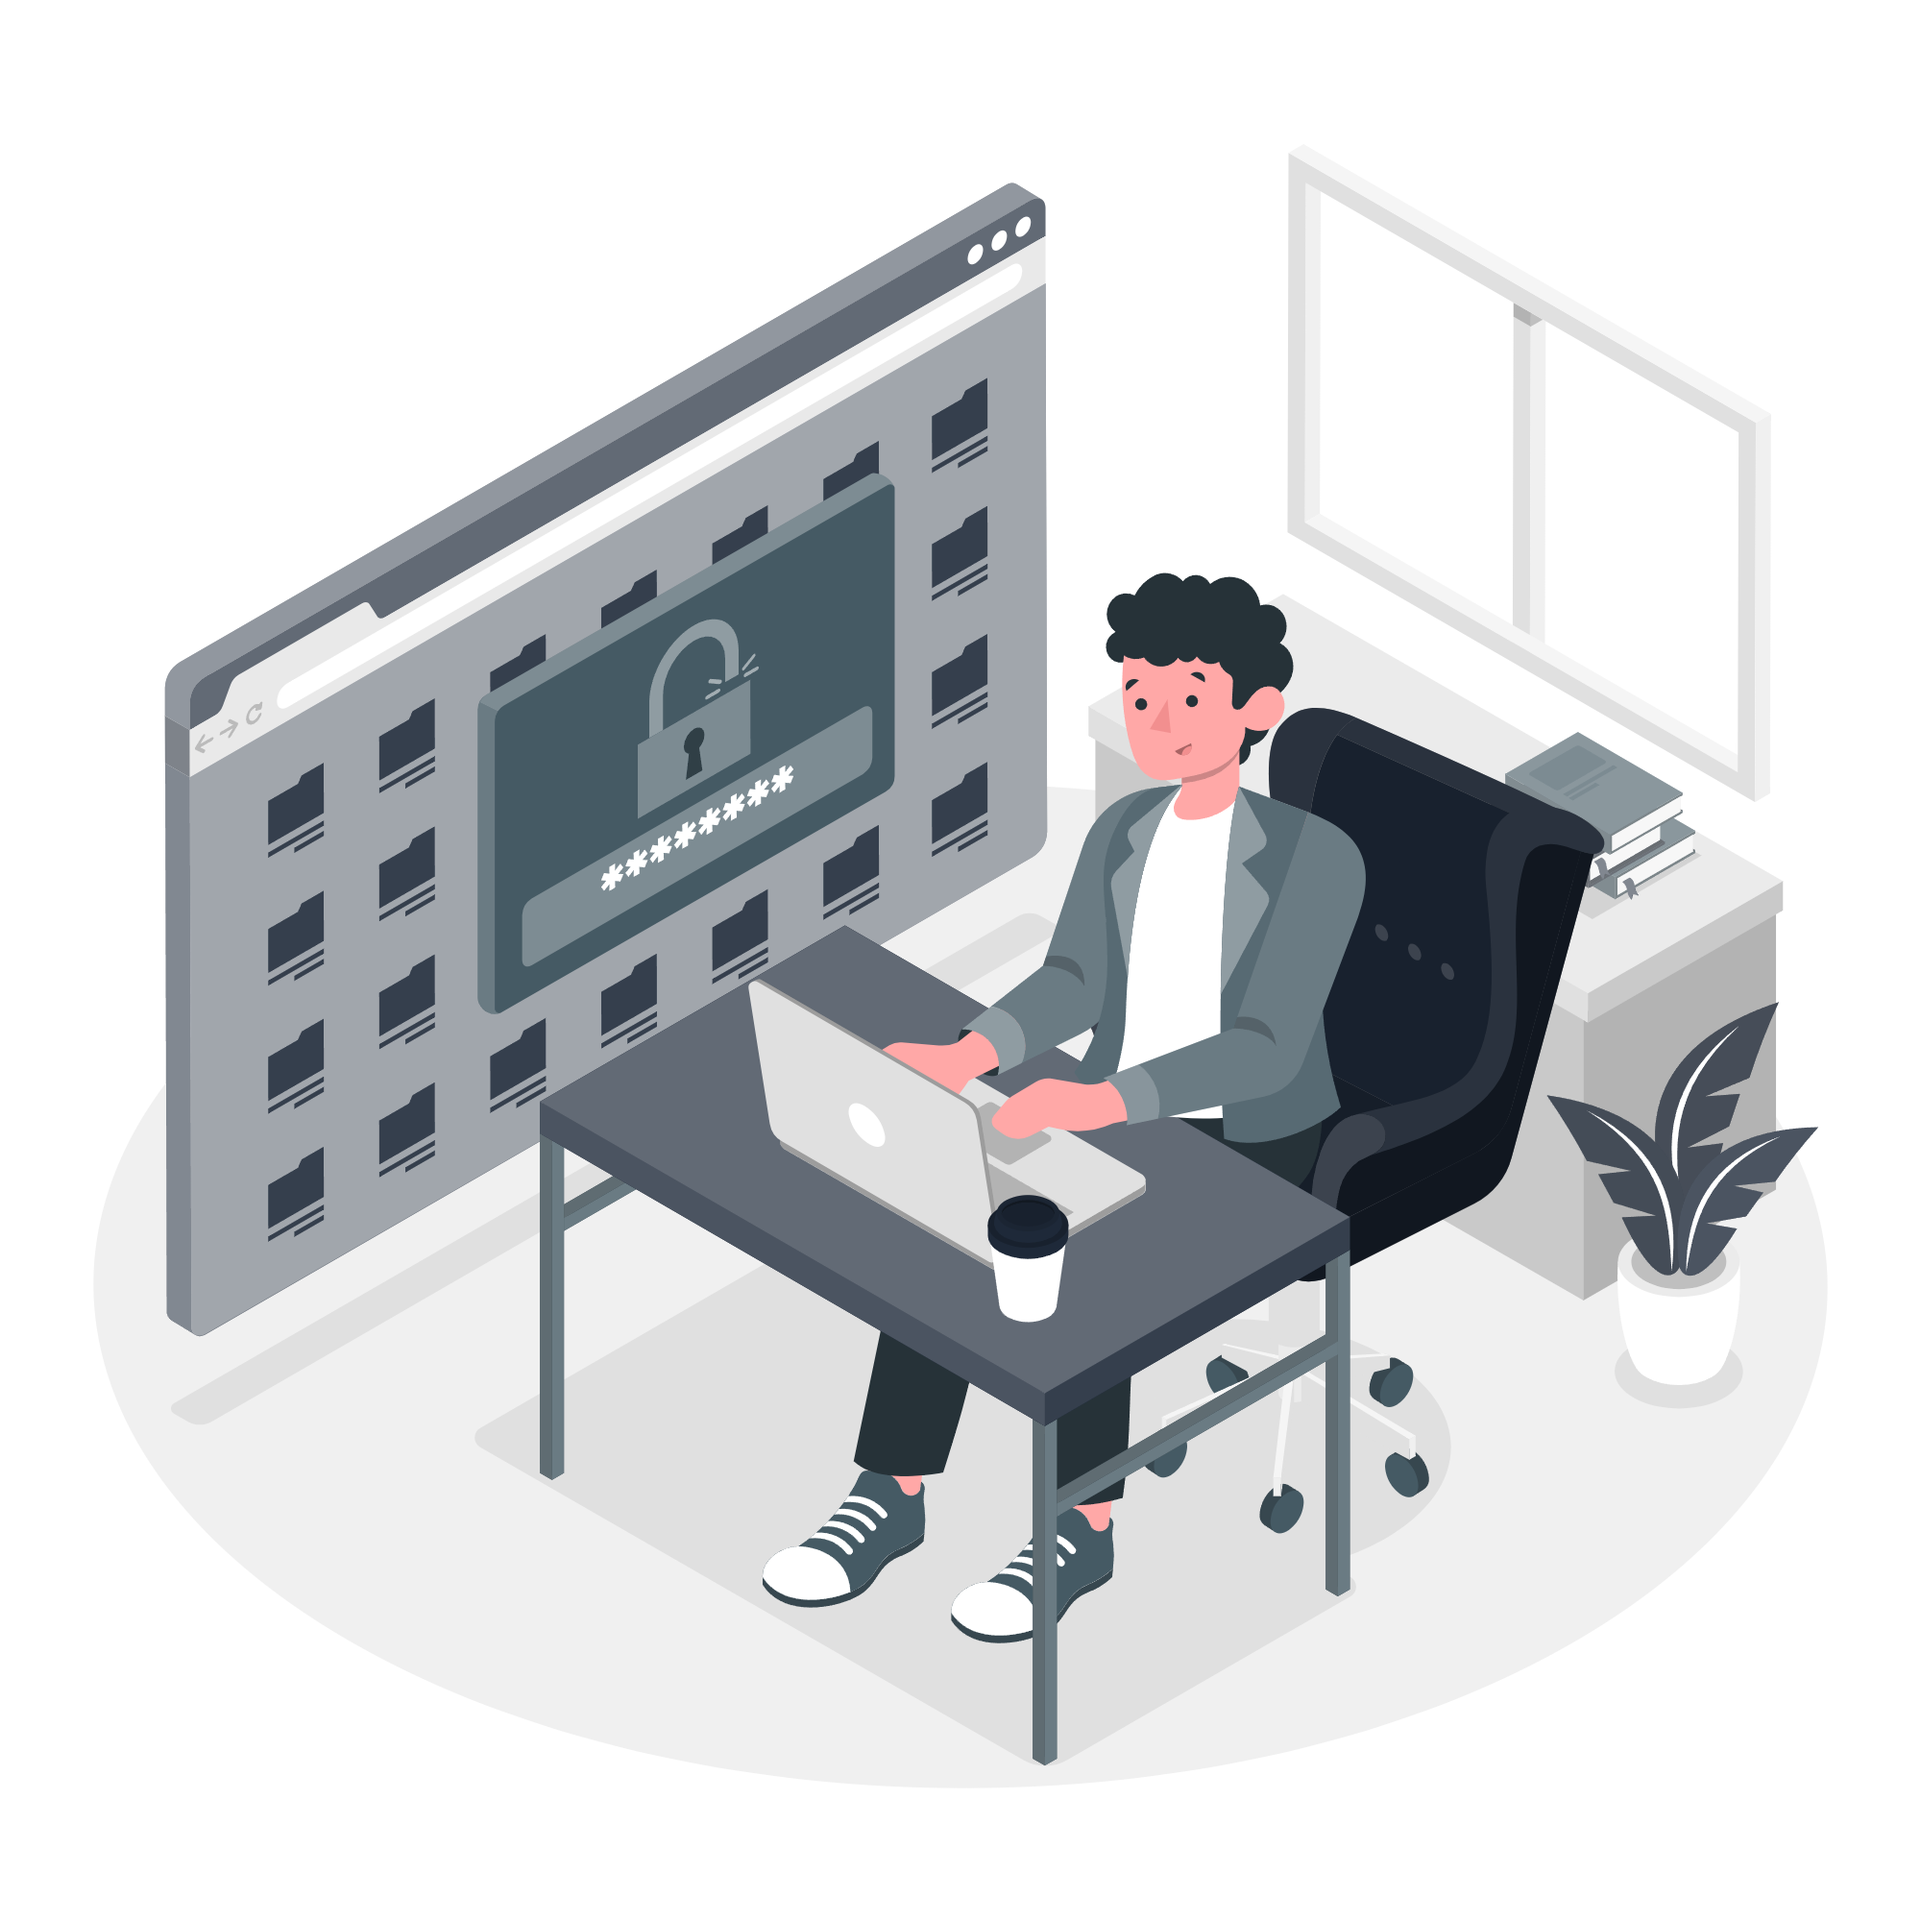
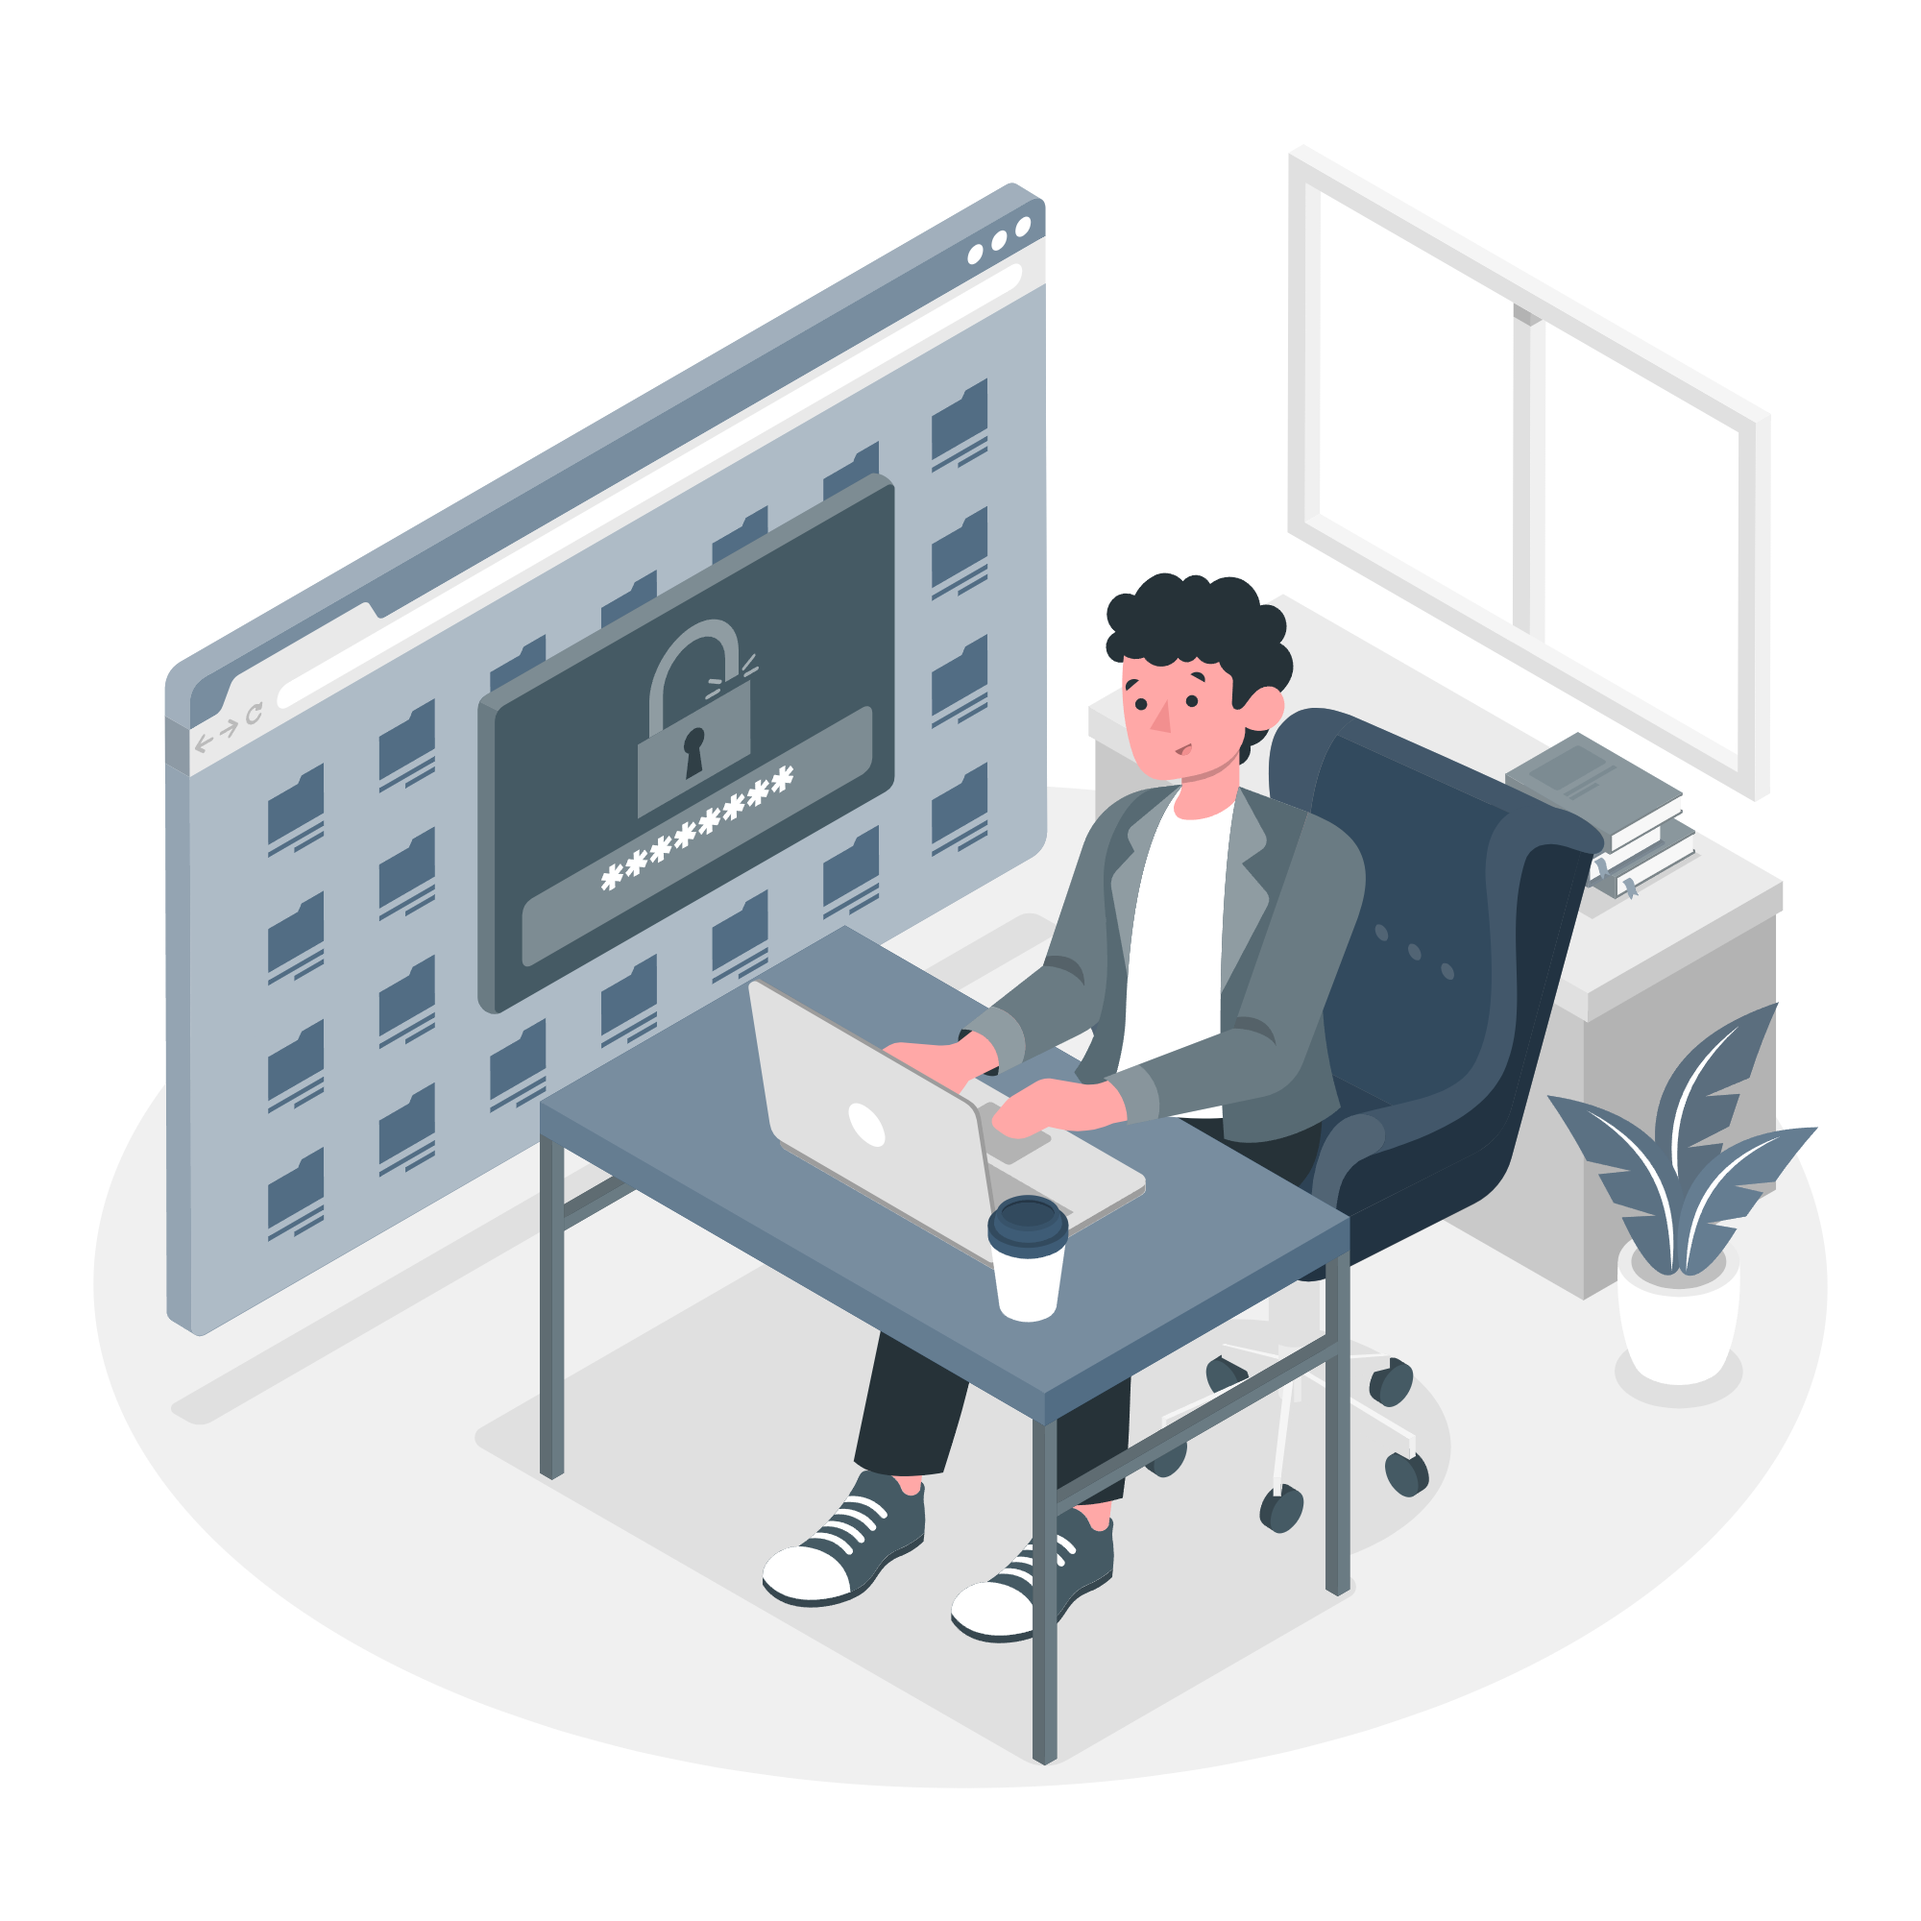
feat: add toast no projeto Web e ajuste no status code da controller de usuário

Changed region(s): [[0.062, 0.093, 0.961, 0.744]]

diff --git a/QuadFlow.Web/QuadFlowWeb/src/features/auth/pages/AuthPage.tsx b/QuadFlow.Web/QuadFlowWeb/src/features/auth/pages/AuthPage.tsx
@@ -2,7 +2,8 @@ import { useState } from "react";
 import type { LoginRequestDto } from "../types/auth.types";
 import { Login } from "../services/auth.services";
 import { useNavigate } from "react-router-dom";
-import loginImage  from "../../../assets/login-image.png";
+import loginImage from "../../../assets/login-image.png";
+import { toast } from "react-toastify";
 
 export default function AuthPage() {
     const [email, setEmail] = useState("");
@@ -17,34 +18,37 @@ export default function AuthPage() {
             password,
         };
 
-        const response = await Login(request);
+        try {
+            const response = await Login(request);
 
-        if (response.status === 400) {
-            console.log(response.data.message);
-        }
+            if (!response.data.sucess) {
+                toast.error(response.data.message);
+                return;
+            }
 
-        if (response.status === 200) {
-            console.log(response.data.message);
-            localStorage.setItem("token", response.data.value.token);
-            navigate("/dashboard");
+            if (response.status === 200) {
+                localStorage.setItem("token", response.data.value.token);
+                toast.success(response.data.message);
+                navigate("/dashboard");
+            }
+
+        } catch (error) {
+            toast.error("E-mail ou senha inválidos.");
         }
     }
 
     return (
-        <main className="relative flex min-h-screen overflow-hidden bg-[#3E5C76]">
-            <section className="hidden w-[40%] items-center justify-center bg-[#F0EBD8] p-10 md:flex">
-                <div className="flex h-full w-full max-w-md items-center justify-center rounded-2x1">
-                    <span className="text-center text-sm font-medium text-[#3E5C76]/60">
-                        <img src={loginImage} alt="Ilustração de login"/>
-                    </span>
-                </div>
-            </section>
 
-            <section className="flex w-full items-center justify-center px-6 py-10 md:w-[60%]">
-                <form
-                    onSubmit={handleLogin}
-                    className="w-full max-w-md rounded-2xl bg-[#E0E0E0] p-8 shadow-2xl"
-                >
+        <main className="relative flex min-h-screen overflow-hidden bg-[#3E5C76]">
+            <section className="relative hidden w-[40%] items-center justify-center bg-[#F0EBD8] lg:flex">
+                <img
+                    src={loginImage}
+                    alt="Ilustração de login"
+                    className="absolute right-[-50px] z-10 w-[400px] xl:right-[-80px] xl:w-[700px]"
+                />
+            </section>
+            <section className="flex w-full items-center justify-center px-6 py-10 lg:w-[60%]">
+                <form onSubmit={handleLogin} className="w-full max-w-md rounded-2xl bg-[#E0E0E0] p-8 shadow-2xl">
                     <div className="mb-8">
                         <h1 className="text-3xl font-bold text-[#26384A]">
                             Bem-vindo ao QuadFlow
@@ -100,6 +104,7 @@ export default function AuthPage() {
                         Entrar
                     </button>
                 </form>
+
             </section>
         </main>
     );

diff --git a/QuadFlow.Web/QuadFlowWeb/src/App.tsx b/QuadFlow.Web/QuadFlowWeb/src/App.tsx
@@ -1,7 +1,12 @@
 import AppRoutes from "./routes/AppRoutes";
-
+import { ToastContainer } from "react-toastify";
 function App() {
-    return <AppRoutes />;
+    return (
+        <>
+            <AppRoutes />
+            <ToastContainer />
+        </>
+    )
 }
 
 export default App;
